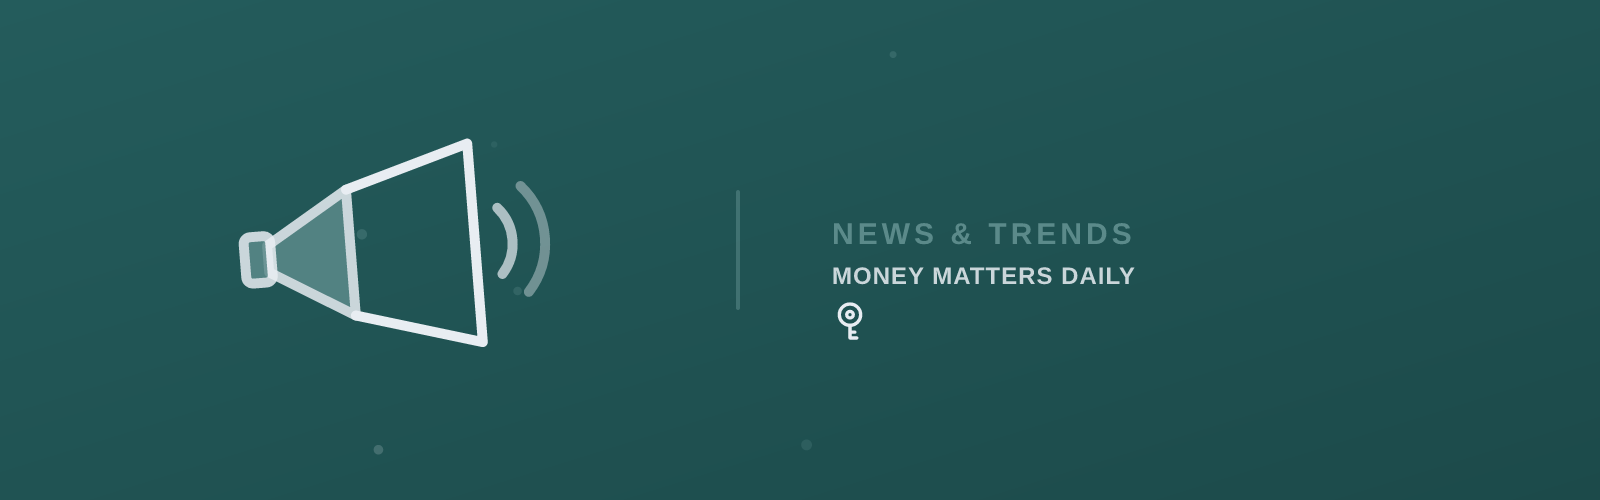
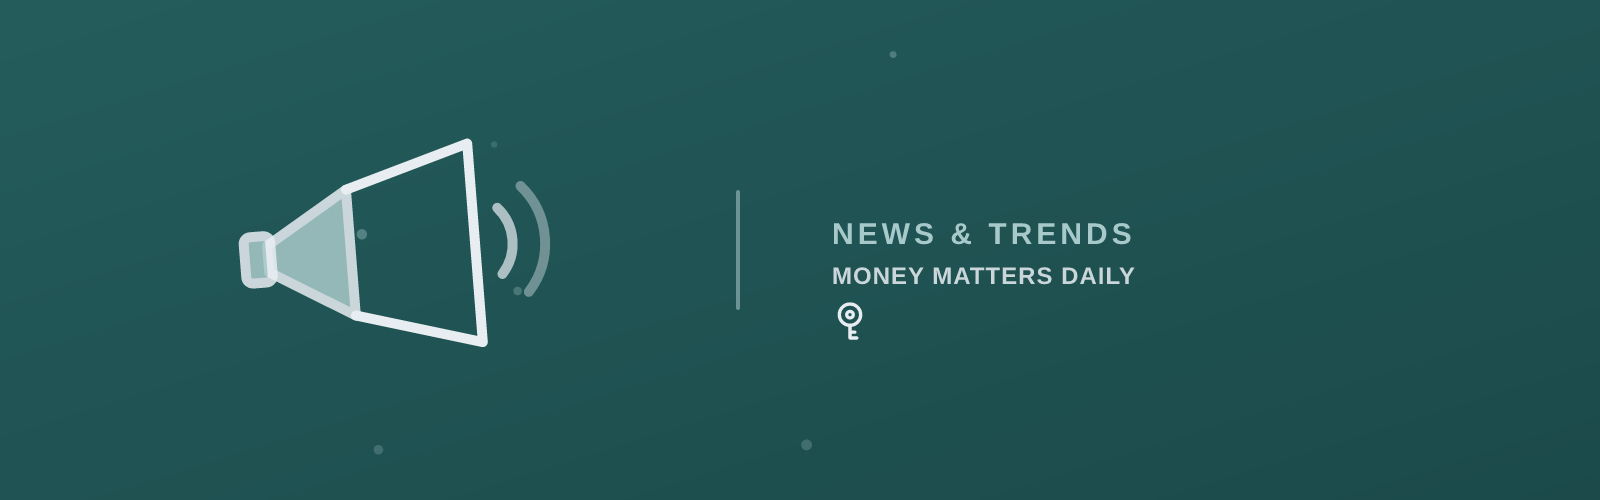
Refresh stale posts: Eurozone HICP (Sept data), UPI MDR deferral, credit wording; fix pin contrast
Claude-Session: https://claude.ai/code/session_018QHDpfg6JFV4Koqibhm4Hw

Changed region(s): [[0.5, 0.45, 0.7188, 0.51], [0.1562, 0.39, 0.2188, 0.6]]

diff --git a/src/content/blog/eurozone-inflation-reports-explained-reading-the-hicp.md b/src/content/blog/eurozone-inflation-reports-explained-reading-the-hicp.md
@@ -1,7 +1,8 @@
 ---
 title: "Eurozone Inflation Reports Explained: Reading the HICP"
-description: "Euro-area inflation just hit 3.2%, but the headline hides a 14.3% energy jump and a much calmer core. Here's how to read a HICP release and what it means for your own budget."
+description: "Euro-area inflation just hit 3.8%, but the headline hides an 18.9% energy jump and a calmer core of 2.5%. Here's how to read a HICP release and what it means for your own budget."
 pubDate: 2026-09-29
+updatedDate: 2026-10-26
 targetKeyword: "Eurozone inflation reports explained: reading the HICP"
 pillar: "news-trends"
 draft: false
@@ -9,12 +10,12 @@ pinApproved: true
 depthReviewed: true
 pinVisual: "table"
 tableRows:
-  - { label: "Headline HICP", value: "3.2%" }
-  - { label: "Energy", value: "14.3%" }
-  - { label: "Core HICP", value: "2.4%" }
+  - { label: "Headline HICP", value: "3.8%" }
+  - { label: "Energy", value: "18.9%" }
+  - { label: "Core HICP", value: "2.5%" }
 ---
 
-Euro-area inflation was 3.2% in August 2026, up from 2.9% in July and 2.0% a year earlier. That single number is what most headlines carry, and it's the least useful part of the release. The same report shows energy prices up 14.3% while services inflation actually eased to 3.0%, and those two facts point in very different directions for a household budget. Here's how to read a Eurostat inflation release properly, and what to do with it.
+Euro-area inflation was 3.8% in September 2026, up from 3.2% in August and 2.2% a year earlier. That single number is what most headlines carry, and it's the least useful part of the release. The same report shows energy prices up 18.9% while services inflation, the biggest part of the basket, was 3.2%, and those two facts point in very different directions for a household budget. Here's how to read a Eurostat inflation release properly, and what to do with it.
 
 ## Who this is for — and who it isn't
 
@@ -28,74 +29,74 @@ The Harmonised Index of Consumer Prices (HICP) is the euro area's official infla
 
 Two things to know about how it's published:
 
-- **The flash estimate comes first.** Eurostat releases an early estimate at the end of each month (or first working day of the next), then a fuller release about two weeks later. For August 2026 the flash said 3.3% and the final release said 3.2%, so a tenth of a point of revision is normal and not a sign that anything went wrong.
-- **It's a year-over-year rate by default.** The headline compares prices this month with the same month a year ago. The monthly rate (0.4% for August) is the change since July, and it's noisier.
+- **The flash estimate comes first.** Eurostat releases an early estimate at the end of each month (or first working day of the next), then a fuller release about two weeks later. For August 2026 the flash said 3.3% and the final release said 3.2%; for September the flash said 3.8% and the final release confirmed 3.8%. So a tenth of a point of revision is normal, but not guaranteed, and not a sign that anything went wrong.
+- **It's a year-over-year rate by default.** The headline compares prices this month with the same month a year ago. The monthly rate (0.6% for September) is the change since August, and it's noisier.
 
-The European Central Bank's inflation goal is 2% over the medium term, which is why 3.2% draws attention, and why the ECB's rate decisions matter for your money. That side is covered in [how European Central Bank rate decisions affect your money](/blog/how-european-central-bank-rate-decisions-affect-your-money/).
+The European Central Bank's inflation goal is 2% over the medium term, which is why 3.8% draws attention, and why the ECB's rate decisions matter for your money. That side is covered in [how European Central Bank rate decisions affect your money](/blog/how-european-central-bank-rate-decisions-affect-your-money/).
 
 ## The four components behind the headline
 
-The real information is in the breakdown. Eurostat splits the HICP basket into four groups, each with a different weight (its share of the average household's spending) and a different job in the headline number. Here's August 2026:
+The real information is in the breakdown. Eurostat splits the HICP basket into four groups, each with a different weight (its share of the average household's spending) and a different job in the headline number. Here's September 2026:
 
 | Component | Share of basket | Annual rate | Points added to headline |
 |---|---|---|---|
-| Services | 46.8% | 3.0% | 1.43 |
-| Non-energy industrial goods | 25.2% | 1.2% | 0.30 |
-| Food, alcohol & tobacco | 18.9% | 1.1% | 0.22 |
-| Energy | 9.0% | 14.3% | 1.29 |
-| **All items** | **100%** | **3.2%** | **3.2** |
+| Services | 46.8% | 3.2% | 1.52 |
+| Non-energy industrial goods | 25.2% | 1.1% | 0.29 |
+| Food, alcohol & tobacco | 18.9% | 1.3% | 0.25 |
+| Energy | 9.0% | 18.9% | 1.71 |
+| **All items** | **100%** | **3.8%** | **3.8** |
 
-(The points add up to 3.2 after rounding.)
+(The points add up to 3.77, which rounds to 3.8.)
 
-Look at the energy row. It's only about 9% of the basket, yet it added nearly as much to the headline as all of services, which is half the basket. That's what a 14.3% annual rise does to a small slice. Part of that jump is arithmetic rather than a fresh shock: energy prices were *falling* a year ago (down 2.0% in August 2025), which makes the comparison base low, and energy also rose 2.9% in the single month of August. Both effects stack.
+Look at the energy row. It's only about 9% of the basket, yet it added more to the headline than all of services, which is nearly half the basket. That's what an 18.9% annual rise does to a small slice. Part of that jump is arithmetic rather than a fresh shock: energy prices were slightly *falling* a year ago (down 0.4% in September 2025), which makes the comparison base low, and energy also rose 4.0% in the single month of September. Both effects stack. A month earlier, in August, the energy rate was 14.3% and its contribution was 1.29 points, so most of September's step up in the headline came from energy.
 
 ## Headline vs. core: which number to watch
 
 You'll see two versions of the headline:
 
-- **Headline HICP (3.2%)** includes everything, energy and food included. This is closest to what actually leaves your account.
-- **Core HICP (2.4%)** strips out energy, food, alcohol and tobacco, the volatile items. It's a better guide to underlying price pressure, and central banks watch it closely because energy swings can reverse without any policy action.
+- **Headline HICP (3.8%)** includes everything, energy and food included. This is closest to what actually leaves your account.
+- **Core HICP (2.5%)** strips out energy, food, alcohol and tobacco, the volatile items. It's a better guide to underlying price pressure, and central banks watch it closely because energy swings can reverse without any policy action.
 
-The gap between the two, 3.2% against 2.4%, is almost entirely energy. If energy prices level off, headline inflation would drift back toward core without anything else changing. If they keep climbing, the headline stays high regardless of what core does. Neither number is "the real one"; they answer different questions.
+The gap between the two, 3.8% against 2.5%, is mostly energy (excluding only energy, the rate is 2.3%). If energy prices level off, headline inflation would drift back toward core without anything else changing. If they keep climbing, the headline stays high regardless of what core does. Neither number is "the real one"; they answer different questions.
 
 ## Your country isn't the average
 
-The euro-area figure is a weighted blend, and national rates can sit far from it. In the August release, Estonia was the lowest in the euro area at 1.3%, while Lithuania (5.6%) and Cyprus (5.2%) were the highest. Among the large economies, Germany was at 2.9%, France 2.6%, Italy 3.2%, and Spain 4.6%.
+The euro-area figure is a weighted blend, and national rates can sit far from it. In the September release, Malta was the lowest in the euro area at 2.4%, while Lithuania (6.1%) and Bulgaria (5.6%) were the highest. Among the large economies, Germany was at 3.3%, France 3.4%, Italy 4.2%, and Spain 5.0%. (The EU-wide table also includes countries outside the euro, such as Romania at 6.5% and Sweden at 1.0%, so check you're reading the euro-area rows.)
 
 So the first thing to do with a euro-area headline is look up your own country's line in the same table. Also note that national statistics offices often publish their own inflation index alongside the HICP (Germany's own consumer price index, for example), and the two can differ because they weight things differently. The HICP, for instance, leaves out the costs of owning your own home. When someone quotes a national figure, check which index they mean before comparing it with a euro-area one.
 
 ## A worked example: your own number
 
-Say a household in the euro area spends €2,800 a month, split like this, and you apply August's annual rates to each category:
+Say a household in the euro area spends €2,800 a month, split like this, and you apply September's annual rates to each category:
 
 | Category | Monthly spend | Annual price change | Extra cost per month |
 |---|---|---|---|
-| Energy (electricity, gas, fuel) | €350 | +14.3% | +€50.05 |
-| Food, alcohol & tobacco | €550 | +1.1% | +€6.05 |
-| Goods | €650 | +1.2% | +€7.80 |
-| Services (rent, transport, dining, insurance) | €1,250 | +3.0% | +€37.50 |
-| **Total** | **€2,800** | | **+€101.40** |
+| Energy (electricity, gas, fuel) | €350 | +18.9% | +€66.15 |
+| Food, alcohol & tobacco | €550 | +1.3% | +€7.15 |
+| Goods | €650 | +1.1% | +€7.15 |
+| Services (rent, transport, dining, insurance) | €1,250 | +3.2% | +€40.00 |
+| **Total** | **€2,800** | | **+€120.45** |
 
-That's about **3.6%** (€101.40 ÷ €2,800), a bit above the 3.2% headline, because this household spends a larger share on energy than the average basket does. Now change one thing: suppose the household is locked into a fixed-price energy contract, so its energy line rises 0% for now. The extra cost drops to €51.35, or about **1.8%**. Same report, very different personal inflation, depending almost entirely on the energy line.
+That's about **4.3%** (€120.45 ÷ €2,800), above the 3.8% headline, because this household spends a larger share on energy than the average basket does (12.5% against about 9%). Now change one thing: suppose the household is locked into a fixed-price energy contract, so its energy line rises 0% for now. The extra cost drops to €54.30, or about **1.9%**. Same report, very different personal inflation, depending almost entirely on the energy line.
 
-Two caveats on the example. The 14.3% is an average across electricity, gas, and motor fuel, so your own energy bill may have moved more or less than that. And a fixed contract only delays the increase; it doesn't cancel it. When the contract renews, the new price reflects wherever the market is then.
+Two caveats on the example. The 18.9% is an average across electricity, gas, and motor fuel, so your own energy bill may have moved more or less than that. And a fixed contract only delays the increase; it doesn't cancel it. When the contract renews, the new price reflects wherever the market is then.
 
 ## What to actually do with a new release
 
 - **Check the energy line first.** If your energy costs are variable, or a fixed contract is up for renewal in the next few months, this is the component most likely to change your budget. Compare tariffs before your renewal date rather than after.
-- **Compare your savings rate to the headline.** If your savings account pays less than 3.2% a year, your money is losing purchasing power in real terms even while the balance grows. That's arithmetic, not a reason to panic, but it's a reason to compare accounts.
-- **Watch core for the direction of travel.** One month of energy-driven movement isn't a trend. If core (2.4% in August) starts climbing over several months, that's the more meaningful warning.
+- **Compare your savings rate to the headline.** If your savings account pays less than 3.8% a year, your money is losing purchasing power in real terms even while the balance grows. That's arithmetic, not a reason to panic, but it's a reason to compare accounts.
+- **Watch core for the direction of travel.** One month of energy-driven movement isn't a trend. If core (2.5% in September, up from 2.4% in August) starts climbing over several months, that's the more meaningful warning.
 - **Don't reset your whole budget on one release.** Look at three or more consecutive months before treating a change as a new normal.
 
 ## Common mistakes
 
 - **Reading the flash estimate as final.** Small revisions are routine, so a 0.1 point change between flash and final isn't news.
-- **Applying the euro-area number to your own country.** The August spread ran from 1.3% to 5.6% within the euro area. Look up your own country's row.
+- **Applying the euro-area number to your own country.** The September spread ran from 2.4% to 6.1% within the euro area. Look up your own country's row.
 - **Confusing headline and core.** Quoting core inflation to someone whose main pain is a heating bill misses their point, and quoting headline to argue about underlying trends misses the ECB's.
 - **Treating a base effect as a new shock.** A large year-over-year jump can partly reflect a weak comparison month a year ago, not just this month's prices.
 
 ## Getting started
 
-Open Eurostat's latest inflation release (it's free and the summary table is on the first screen) and do two things: find your country's row, and find the energy row. Then take last month's actual spending, split it into the four groups above, and multiply each by its annual rate the way the worked example does. It takes about ten minutes and gives you a personal inflation figure that's specific enough to act on. The next release is the flash estimate for September, scheduled for 2 October 2026, followed by the full September figures on 16 October. If you also earn or spend across currencies, [multi-currency budgeting for remote workers](/blog/multi-currency-budgeting-for-remote-workers/) covers the budgeting side of that.
+Open Eurostat's latest inflation release (it's free and the summary table is on the first screen) and do two things: find your country's row, and find the energy row. Then take last month's actual spending, split it into the four groups above, and multiply each by its annual rate the way the worked example does. It takes about ten minutes and gives you a personal inflation figure that's specific enough to act on. The next release is the flash estimate for October, scheduled for 4 November 2026, followed by the full October figures on 18 November. If you also earn or spend across currencies, [multi-currency budgeting for remote workers](/blog/multi-currency-budgeting-for-remote-workers/) covers the budgeting side of that.
 
-*Last updated September 2026. Figures reflect Eurostat's euro indicators release of 17 September 2026 (August 2026 data, euro area of 21 members) and will change with each monthly release. Check Eurostat's inflation page for the current figures rather than relying on the numbers above indefinitely.*
+*Last updated 26 October 2026. Figures reflect Eurostat's euro indicators release of 16 October 2026 (September 2026 data, euro area of 21 members) and will change with each monthly release. Check Eurostat's inflation page for the current figures rather than relying on the numbers above indefinitely.*

diff --git a/src/content/blog/best-money-management-apps-for-upi-and-digital-payments-in-india.md b/src/content/blog/best-money-management-apps-for-upi-and-digital-payments-in-india.md
@@ -1,7 +1,8 @@
 ---
 title: "Best Money Management Apps for UPI and Digital Payments in India (2026)"
-description: "PhonePe, Google Pay, and Paytm move your money; Money View, Axio, ET Money, and Jupiter help you understand it. Here's how to pick one of each, what UPI actually costs you, and what the new merchant fee changes (and doesn't)."
+description: "PhonePe, Google Pay, and Paytm move your money; Money View, Axio, ET Money, and Jupiter help you understand it. Here's how to pick one of each, what UPI actually costs you, and what the merchant fee (now postponed) changes and doesn't."
 pubDate: 2026-09-30
+updatedDate: 2026-10-26
 targetKeyword: "best money management apps for UPI and digital payments in India"
 pillar: "app-comparisons"
 draft: false
@@ -46,17 +47,17 @@ This is where you actually see what you spend. The main options fall into two st
 
 **Manual or budget-first apps.** If you'd rather set monthly limits yourself than review auto-categorised history, a manual tracker with envelopes or category budgets works, at the cost of typing. The general comparison of how those work is in [Best Budgeting Apps Compared](/blog/best-budgeting-apps-compared/); note that many US-first budgeting apps can't read Indian UPI activity automatically.
 
-## What UPI actually costs you, and what changes on October 15
+## What UPI actually costs you, and the merchant fee that was postponed
 
-For consumers the honest answer is: nothing on UPI itself. RBI has said transactions remain free for users, and that is the basis for everything above. What changes from **October 15, 2026** is on the merchant side, per the Department of Financial Services' FAQ published on September 15:
+For consumers the honest answer is: nothing on UPI itself. RBI has said transactions remain free for users, and that is the basis for everything above. A fee on some merchant payments was set to start on **October 15, 2026**, per the Department of Financial Services' FAQ published on September 15, but on **October 13 NPCI deferred it**, citing the festive season. NPCI said it will be implemented "immediately post Diwali" on a date to be notified separately, and no date had been announced when this post was updated. A source quoted by Business Standard said the fee structure itself isn't changing. Here is what the September framework says:
 
 - Person-to-person transfers stay free.
 - Merchant payments up to ₹2,000 stay free.
 - Above ₹2,000, merchants pay 0.4%, capped at ₹300 (the cap applies from ₹75,000 and up), with flat or lower rates for some categories such as railways, telecom, insurance, fuel, utilities, and securities purchases.
 - Small merchants receiving up to ₹1 lakh a month are exempt.
-- Merchants are not allowed to pass the charge on to you, and the government has told banks to make sure they don't. A petition against the framework is already before the Supreme Court, so details could still shift.
+- Merchants are not allowed to pass the charge on to you, and the government has told banks to make sure they don't. A petition against the framework is before the Supreme Court, which on 28 September declined to stay it and asked the Centre, RBI and NPCI to respond, so details could still shift.
 
-The practical takeaway: if a shop asks for an extra "UPI charge" on top of the price after October 15, that is not how the rule is meant to work. Keep the receipt and raise it with the merchant or your bank.
+The practical takeaway: once the fee starts, if a shop asks for an extra "UPI charge" on top of the price, that is not how the rule is meant to work. Keep the receipt and raise it with the merchant or your bank.
 
 ## A worked example: the bill-payment fee that isn't UPI
 
@@ -88,4 +89,4 @@ If your card returns about 1% in rewards on that spend, a 1% fee plus GST (about
 
 Outside India, Google Pay and other wallets work differently. See [digital wallets compared: Apple Pay vs Google Pay vs PayPal](/blog/digital-wallets-compared-apple-pay-vs-google-pay-vs-paypal/).
 
-*Last updated September 2026. UPI limits, app fees, and the merchant discount rate framework (effective October 15, 2026, and subject to a pending court challenge) can change; NPCI's 30% per-app market share cap is also scheduled for review by December 31, 2026. Market-share figures reflect August 2026 data. Confirm current limits and fees in your bank's and app's own terms before relying on them.*
+*Last updated 26 October 2026. UPI limits, app fees, and the merchant discount rate framework (originally due 15 October 2026, deferred by NPCI on 13 October to a date still to be notified, and subject to a pending court challenge) can change; NPCI's 30% per-app market share cap is also scheduled for review by December 31, 2026. Market-share figures reflect August 2026 data. Confirm current limits and fees in your bank's and app's own terms before relying on them.*

diff --git a/NOTES.md b/NOTES.md
@@ -12,6 +12,16 @@
 
 Running log of setup decisions and open items. Newest entries at top.
 
+## 2026-10-26 (later) — Stale-item cleanup: Eurozone refresh, UPI correction, credit wording, pin contrast
+
+Owner asked to work through the open items from the NOTES follow-up lists. Done today:
+
+- **Eurozone HICP post refreshed** (closes the 2026-09-29 TODO). Now September 2026 data from Eurostat's 16 Oct release ("Annual inflation up to 3.8% in the euro area"): headline 3.8% (flash 2 Oct also 3.8%, so no revision), energy 18.9% (contribution 1.71 pp), services 3.2% (1.52), non-energy industrial goods 1.1% (0.29), food/alcohol/tobacco 1.3% (0.25), core 2.5%, monthly 0.6%. Rewrote the intro, components table, base-effect paragraph (energy was -0.4% a year ago, +4.0% on the month), headline-vs-core section, country paragraph (euro-area lowest Malta 2.4%, highest Lithuania 6.1% then Bulgaria 5.6%; DE 3.3, FR 3.4, IT 4.2, ES 5.0; a note not to read Romania 6.5%/Sweden 1.0% as euro-area rows), the worked example (recomputed in code: +EUR120.45 = about 4.3%; with a fixed energy contract +EUR54.30 = about 1.9%), next-release dates (flash 4 Nov, full 18 Nov), footer and pin rows. `updatedDate: 2026-10-26` set; pin regenerated and viewed. The figures were read from a third-party copy of the Eurostat release (poder360 PDF) and cross-checked against eunews (headline, contributions, top/bottom countries); eurostat's own site was not fetched. The existing X draft for this post still quotes the old 3.2%/14.3% (already-posted copy, left as is).
+- **UPI post corrected.** It said the merchant fee takes effect 15 Oct. On 2026-10-13 NPCI deferred it ("keeping in mind the festive season") to "immediately post Diwali" on a date to be notified; no date was announced (Business Standard and PTI via ThePrint, both 10-13). Fee structure reportedly unchanged (0.4% above Rs 2,000, capped at Rs 300; Rs 5 flat for some categories). Supreme Court on 2026-09-28 refused a stay and asked the Centre, RBI and NPCI to respond within four weeks (Inc42). Post text, heading, description and footer now say deferred; `updatedDate` set. Still to re-check: whether a post-Diwali date is announced, the Supreme Court follow-up, and the NPCI 30% cap review by 2026-12-31. The Moneylife page for the deferral did not load; NOT verified which Diwali date applies, so the post gives none.
+- **Credit wording.** credit-utilization-explained description no longer says utilization "is 30% of your FICO score" (now: sits inside the amounts-owed part, 30%). what-hurts-your-credit-score: row relabelled "Amounts owed (includes utilization)", the "65%" sentence reworded to match, and the unverified "60-110 points" late-payment figure replaced by a general statement (a search for a primary FICO source did not surface one). Still unverified in that post: "under 10% is where it stops dragging the score at all". `updatedDate` set on both.
+- **Pin contrast.** `credit` and `news-trends` accents changed from midTeal (about 2.6:1 on the background) to lightTeal (about 5.6:1) in scripts/lib/visual-kit.mjs. Regenerated pins and heroes for the 14 posts in those two pillars and viewed two. Two posts' images regenerated differently even with the OLD palette, so they look hand-edited or older and were left untouched: what-inflation-reports-mean-for-your-budget and what-stock-market-volatility-means-for-your-savings (both still use the dim accent).
+- Not done (not yet due or owner's call): Fed post refresh after the Oct 27-28 FOMC; merge/keep decision for the two Fed posts; EPRA refresh mid-November; Search Console indexing check; optional IndexNow.
+
 ## 2026-10-26 (later) — Bing Webmaster Tools set up; sitemap submitted
 
 - Owner imported moneymattersdaily.money into Bing Webmaster Tools from Google Search Console (verification carried over; role Administrator). The import showed 0 sitemaps for this site, so the sitemap was submitted by hand: `https://moneymattersdaily.money/sitemap.xml`, last submit 2026-10-26, status "Processing", 0 errors, 0 warnings, 0 URLs discovered yet (normal at first).

diff --git a/src/content/blog/what-hurts-your-credit-score.md b/src/content/blog/what-hurts-your-credit-score.md
@@ -2,6 +2,7 @@
 title: "What Actually Hurts Your Credit Score (and What's Just a Myth)"
 description: "Credit scores run on a weighted formula, not intuition — and some of the most common 'credit tips' people follow are myths that do nothing or actively backfire. Here's what really moves the number, ranked by weight."
 pubDate: 2026-08-23
+updatedDate: 2026-10-26
 targetKeyword: "what hurts your credit score"
 pillar: "credit"
 draft: false
@@ -16,16 +17,16 @@ Most credit advice treats every mistake as equally damaging, but a FICO score is
 | Factor | Weight | What it actually measures |
 |---|---|---|
 | **Payment history** | 35% | Whether you've paid on time — the single biggest lever |
-| **Amounts owed (utilization)** | 30% | Balance vs. credit limit, per card and overall |
+| **Amounts owed (includes utilization)** | 30% | Balances vs. credit limits, per card and overall, plus how much you owe in total |
 | **Length of credit history** | 15% | Age of your oldest, newest, and average account |
 | **Credit mix** | 10% | Whether you have both revolving (cards) and installment (loans) credit |
 | **New credit** | 10% | Recent hard inquiries and newly opened accounts |
 
-Payment history and utilization together are 65% of the score. That's most of it, and both respond to the same two habits: pay on time, keep balances low relative to limits.
+Payment history and amounts owed (which includes utilization) together are 65% of the score. That's most of it, and both respond to the same two habits: pay on time, keep balances low relative to limits.
 
 ## What actually hurts it
 
-- **A payment 30+ days late.** This is the single worst common mistake — a 30-day-late payment can drop a score by 60–110 points and stays on the report for seven years. One late payment after a long clean history hurts less than the same late payment during an already-rocky stretch, but it's never nothing.
+- **A payment 30+ days late.** This is the single worst common mistake — a 30-day-late payment can drop a score sharply, by an amount that depends on your starting score and history, and it stays on the report for seven years. One late payment after a long clean history hurts less than the same late payment during an already-rocky stretch, but it's never nothing.
 - **High utilization.** Under 30% is the usual guideline, under 10% is where it stops dragging the score at all. This resets every billing cycle, so it's the fastest-moving factor — a change shows up within about a month, in either direction.
 - **Closing your oldest card.** This is a two-part hit: it shortens your average account age (length of history) and removes available credit, which raises utilization on whatever's left — even if you never used the card. Almost always net-negative, even when the reason for closing it feels responsible.
 - **Applying for several credit products in a short window.** Each hard inquiry is a small ding on its own, but a cluster of them close together reads to a scoring model as risk-seeking behavior, not comparison shopping — with one specific exception below.

diff --git a/src/content/blog/credit-utilization-explained.md b/src/content/blog/credit-utilization-explained.md
@@ -1,7 +1,8 @@
 ---
 title: "Credit Utilization Explained: The Number That Moves Your Score Fastest"
-description: "Credit utilization is 30% of your FICO score and resets every billing cycle, making it the fastest lever you have. Here's how it's actually calculated — per-card, overall, and by statement date — with worked examples."
+description: "Credit utilization sits inside the amounts-owed part of your FICO score (30% of the total) and resets every billing cycle, making it one of the fastest levers you have. Here's how it's actually calculated — per-card, overall, and by statement date — with worked examples."
 pubDate: 2026-08-24
+updatedDate: 2026-10-26
 targetKeyword: "credit utilization explained"
 pillar: "credit"
 draft: false
